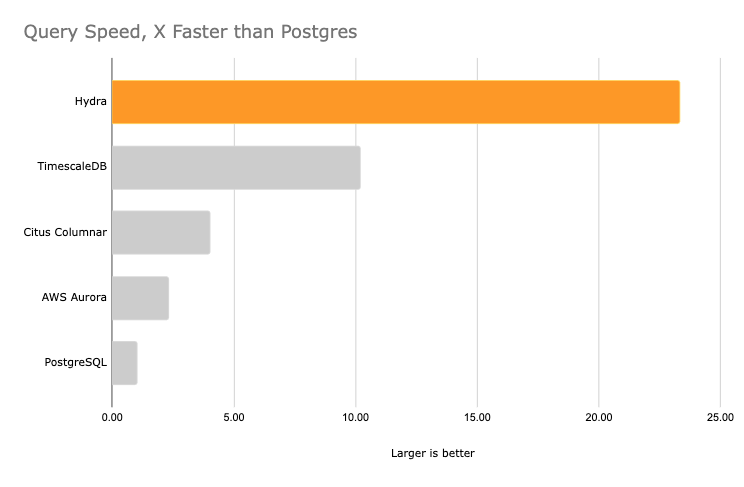
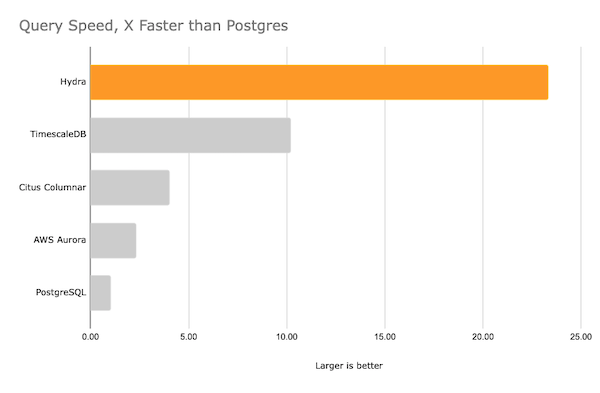
Update README

diff --git a/README.md b/README.md
@@ -9,20 +9,44 @@
     <a href="https://dashboard.hydra.so/signup">Free Cloud Trial</a> |
     <a href="https://docs.hydra.so">Docs</a> |
     <a href="https://discord.com/invite/SQrwnAxtDw">Discord</a> |
-    <a href="https://hydra.so/">Website</a> 
+    <a href="https://hydra.so/">Website</a>
 </h3>
 
 </div>
 
+## The world’s fastest Postgres for analytics
+
 Hydra is a modern, open source replacement for enterprise data warehouses. It’s fast and feature-rich so devs can build better analytics, quicker.
 
-Hydra implements an open source columnar engine to Postgres, driving 23X query performance and scalability over basic Postgres. When comparing to traditional warehouses, Hydra delivers 6000X more throughput and faster lookups.
+Hydra implements an open source columnar engine to Postgres, driving 23X query performance, better cache hit rates, and scalability over basic Postgres. When comparing to traditional warehouses, Hydra delivers 1500X more throughput to enable realtime analytical workloads.
 
 ## Contents
+- Benchmarks
 - Quick Start
 - Features
 - Community and Status
 - License
+
+## 💪 Benchmarks
+![Hydra - the open source data warehouse](.images/FasterthanPG.png)
+
+[Review Clickbench](https://tinyurl.com/clickbench) for comprehensive results and the list of 42 queries tested.
+
+This benchmark represents typical workload in the following areas: clickstream and traffic analysis, web analytics, machine-generated data, structured logs, and events data. It covers the typical queries in ad-hoc analytics and real-time dashboards.
+
+### Hydra vs Postgres
+Results in seconds, smaller is better.<br />
+![Hydra - the open source data warehouse](.images/ReadmeBenchmarks.png)
+
+### Hydra vs. Enterprise data warehouses
+
+Hydra delivers 1500X more throughput than traditional warehouses to enable realtime analytical workloads. This is accomplished with transactional heap tables.
+
+|  | Hydra | Redshift |
+| --- | --- | --- |
+| TPS | 21988 | 15 |
+
+[View detailed results](https://github.com/hydradatabase/benchmarking/tree/main/pgbench/results)
 
 ## 🚀 Quick Start
 ### Run Hydra locally
@@ -47,11 +71,15 @@ Hydra Cloud provides a scalable and secure cloud environment where automatic bac
 Sign up for [Hydra Cloud](https://dashboard.hydras.io/signup) and get a free, managed database.
 
 ## 🎁 Features
-🗃 hosted postgres database - [docs](https://docs.hydra.so/getting-started)
-<br>📎 columnar store with updates and deletes- [docs](https://docs.hydra.so/concepts/using-hydra-columnar)
-<br>🤹♀ query parallelization
-<br>🐎 vectorized execution of WHERE clauses
-<br>📊 external tables - [docs](https://docs.hydra.so/concepts/using-hydra-external-tables)
+🐘 hosted postgres database - [docs](https://docs.hydra.so/getting-started)
+<br>📊 columnar store with updates and deletes- [docs](https://docs.hydra.so/concepts/using-hydra-columnar)
+<br>🔀 query parallelization
+<br>🔍 vectorized execution of WHERE clauses
+<br>🌐 external tables - [docs](https://docs.hydra.so/concepts/using-hydra-external-tables)
+
+![Hydra - the open source data warehouse](.images/Columnar_diagram.png)
+
+Read [documentation](https://docs.hydra.so/concepts/using-hydra-columnar) on using Hydra’s columnar table access method.
 
 ## 🤝 Community and Status
 [DEVELOPERS.md](https://github.com/hydradatabase/hydra/blob/main/DEVELOPERS.md) for contributing and building the image.
